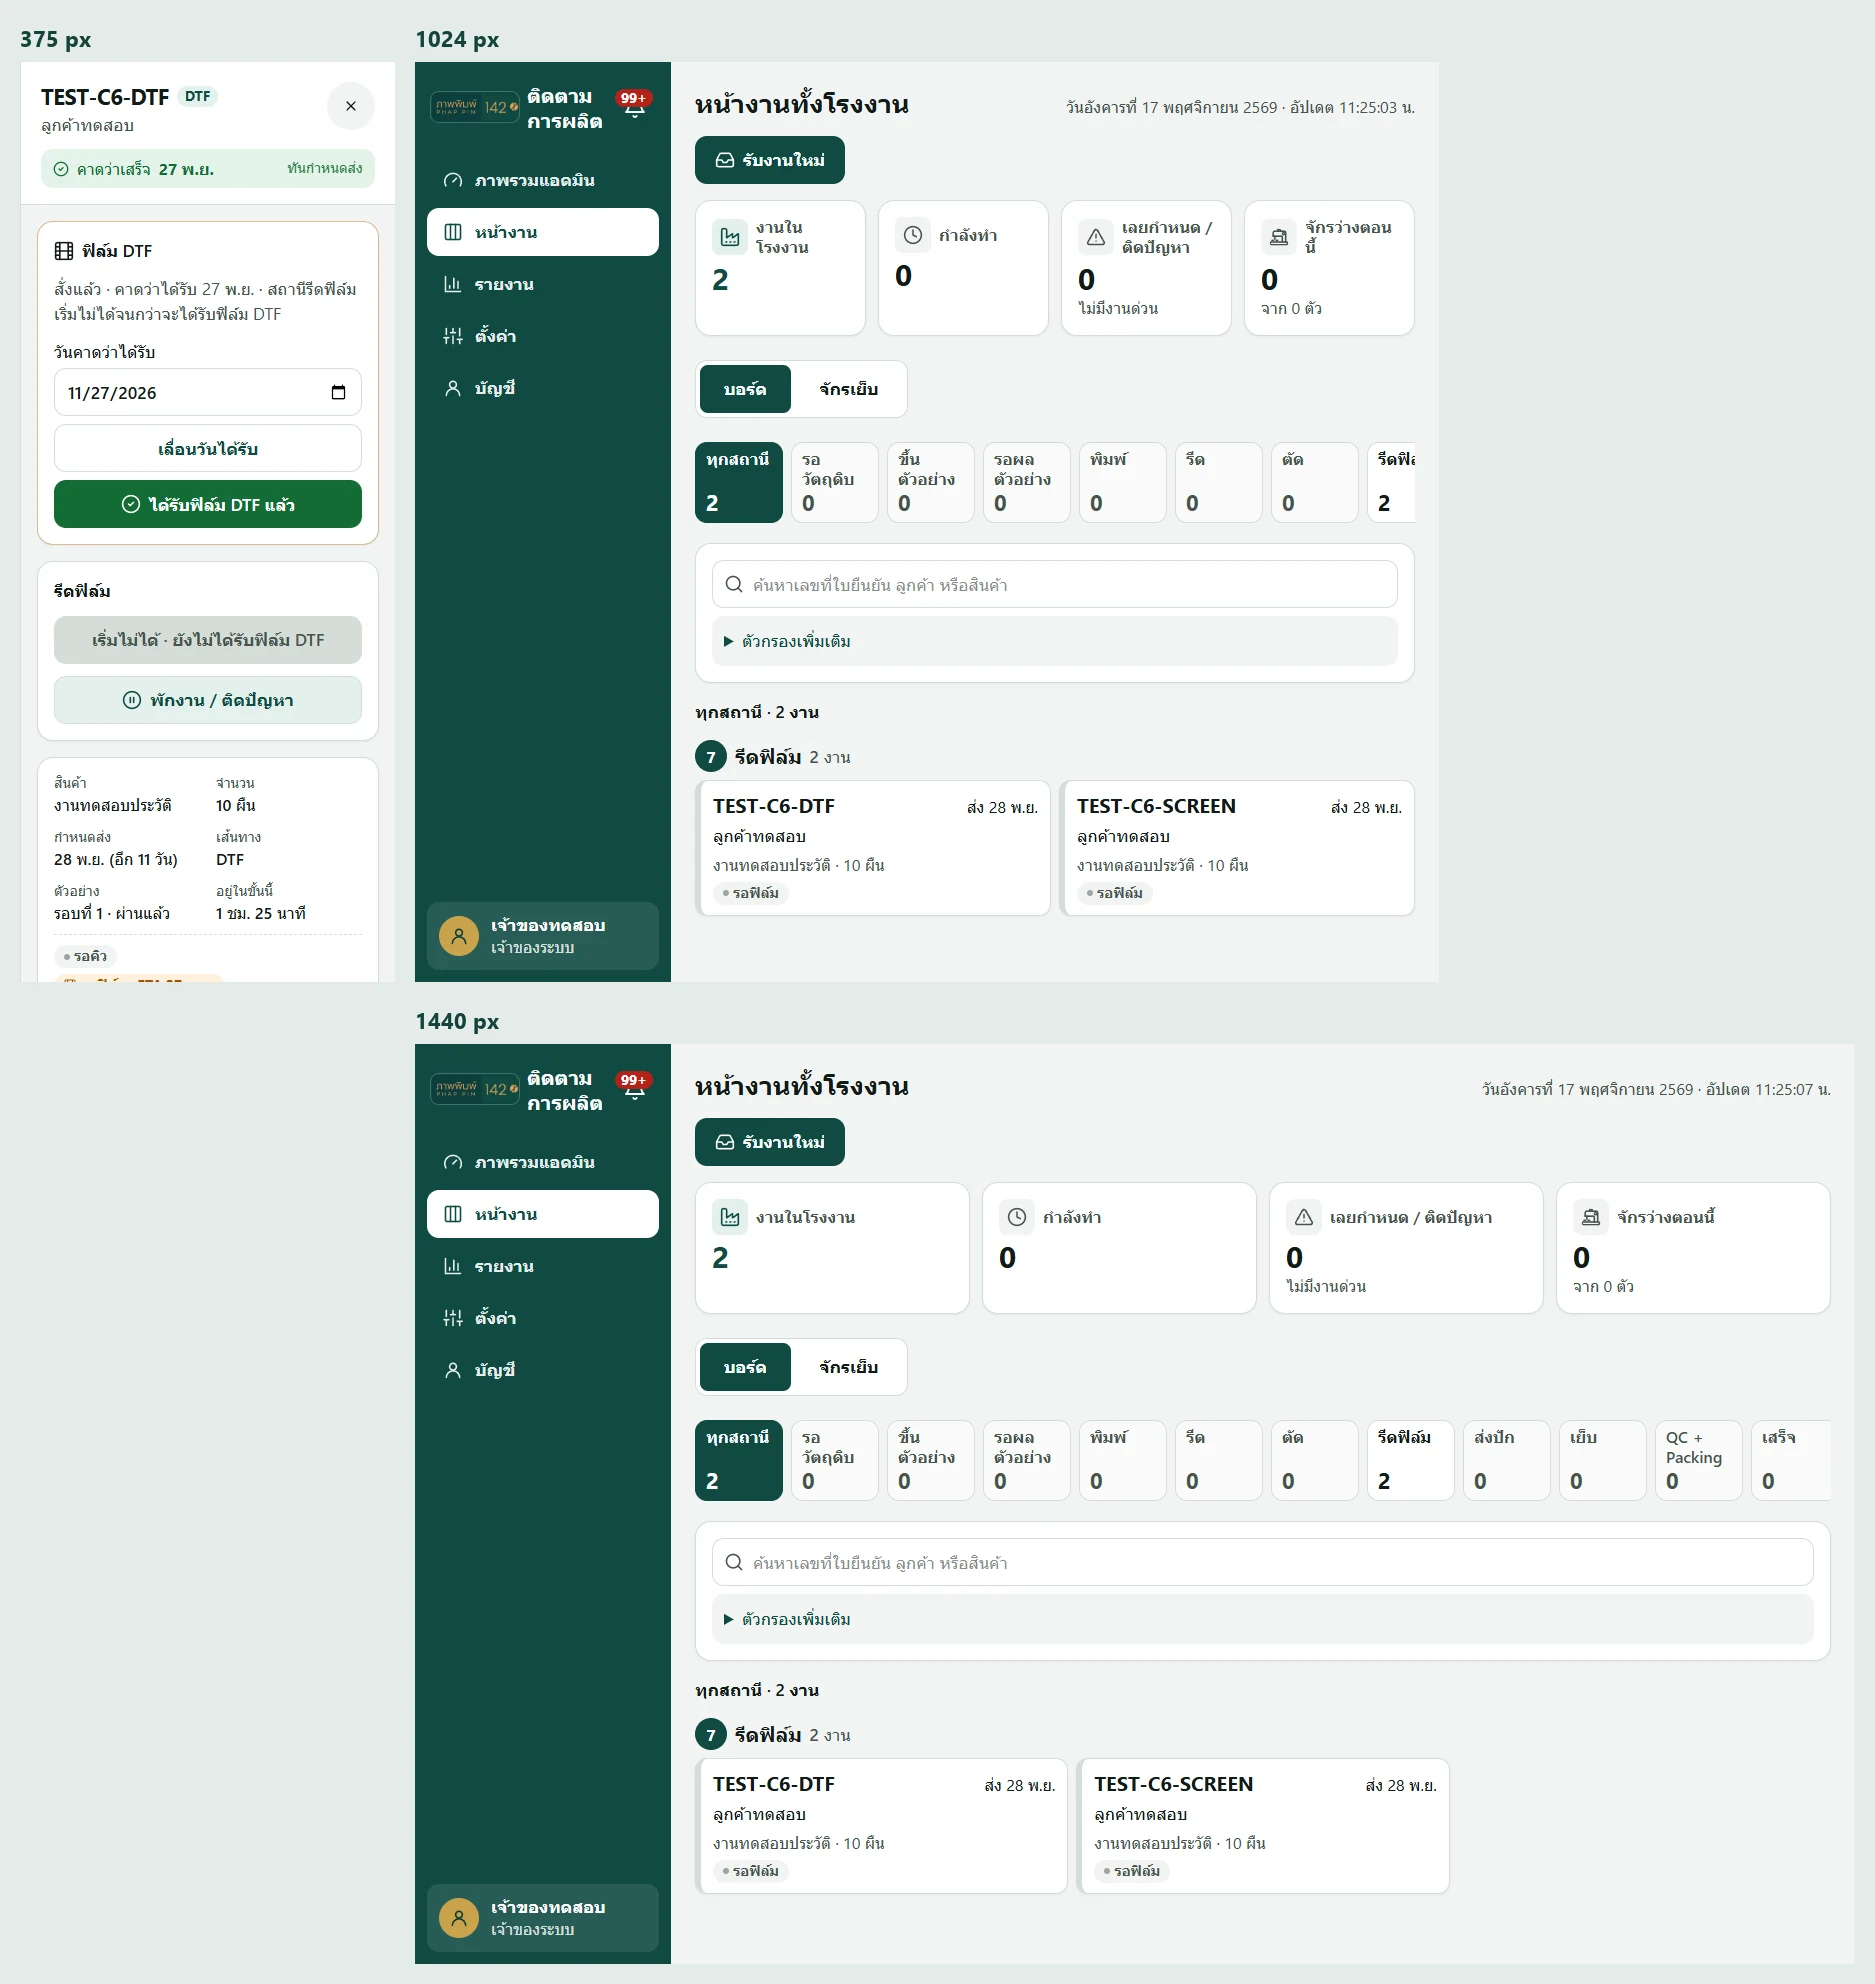
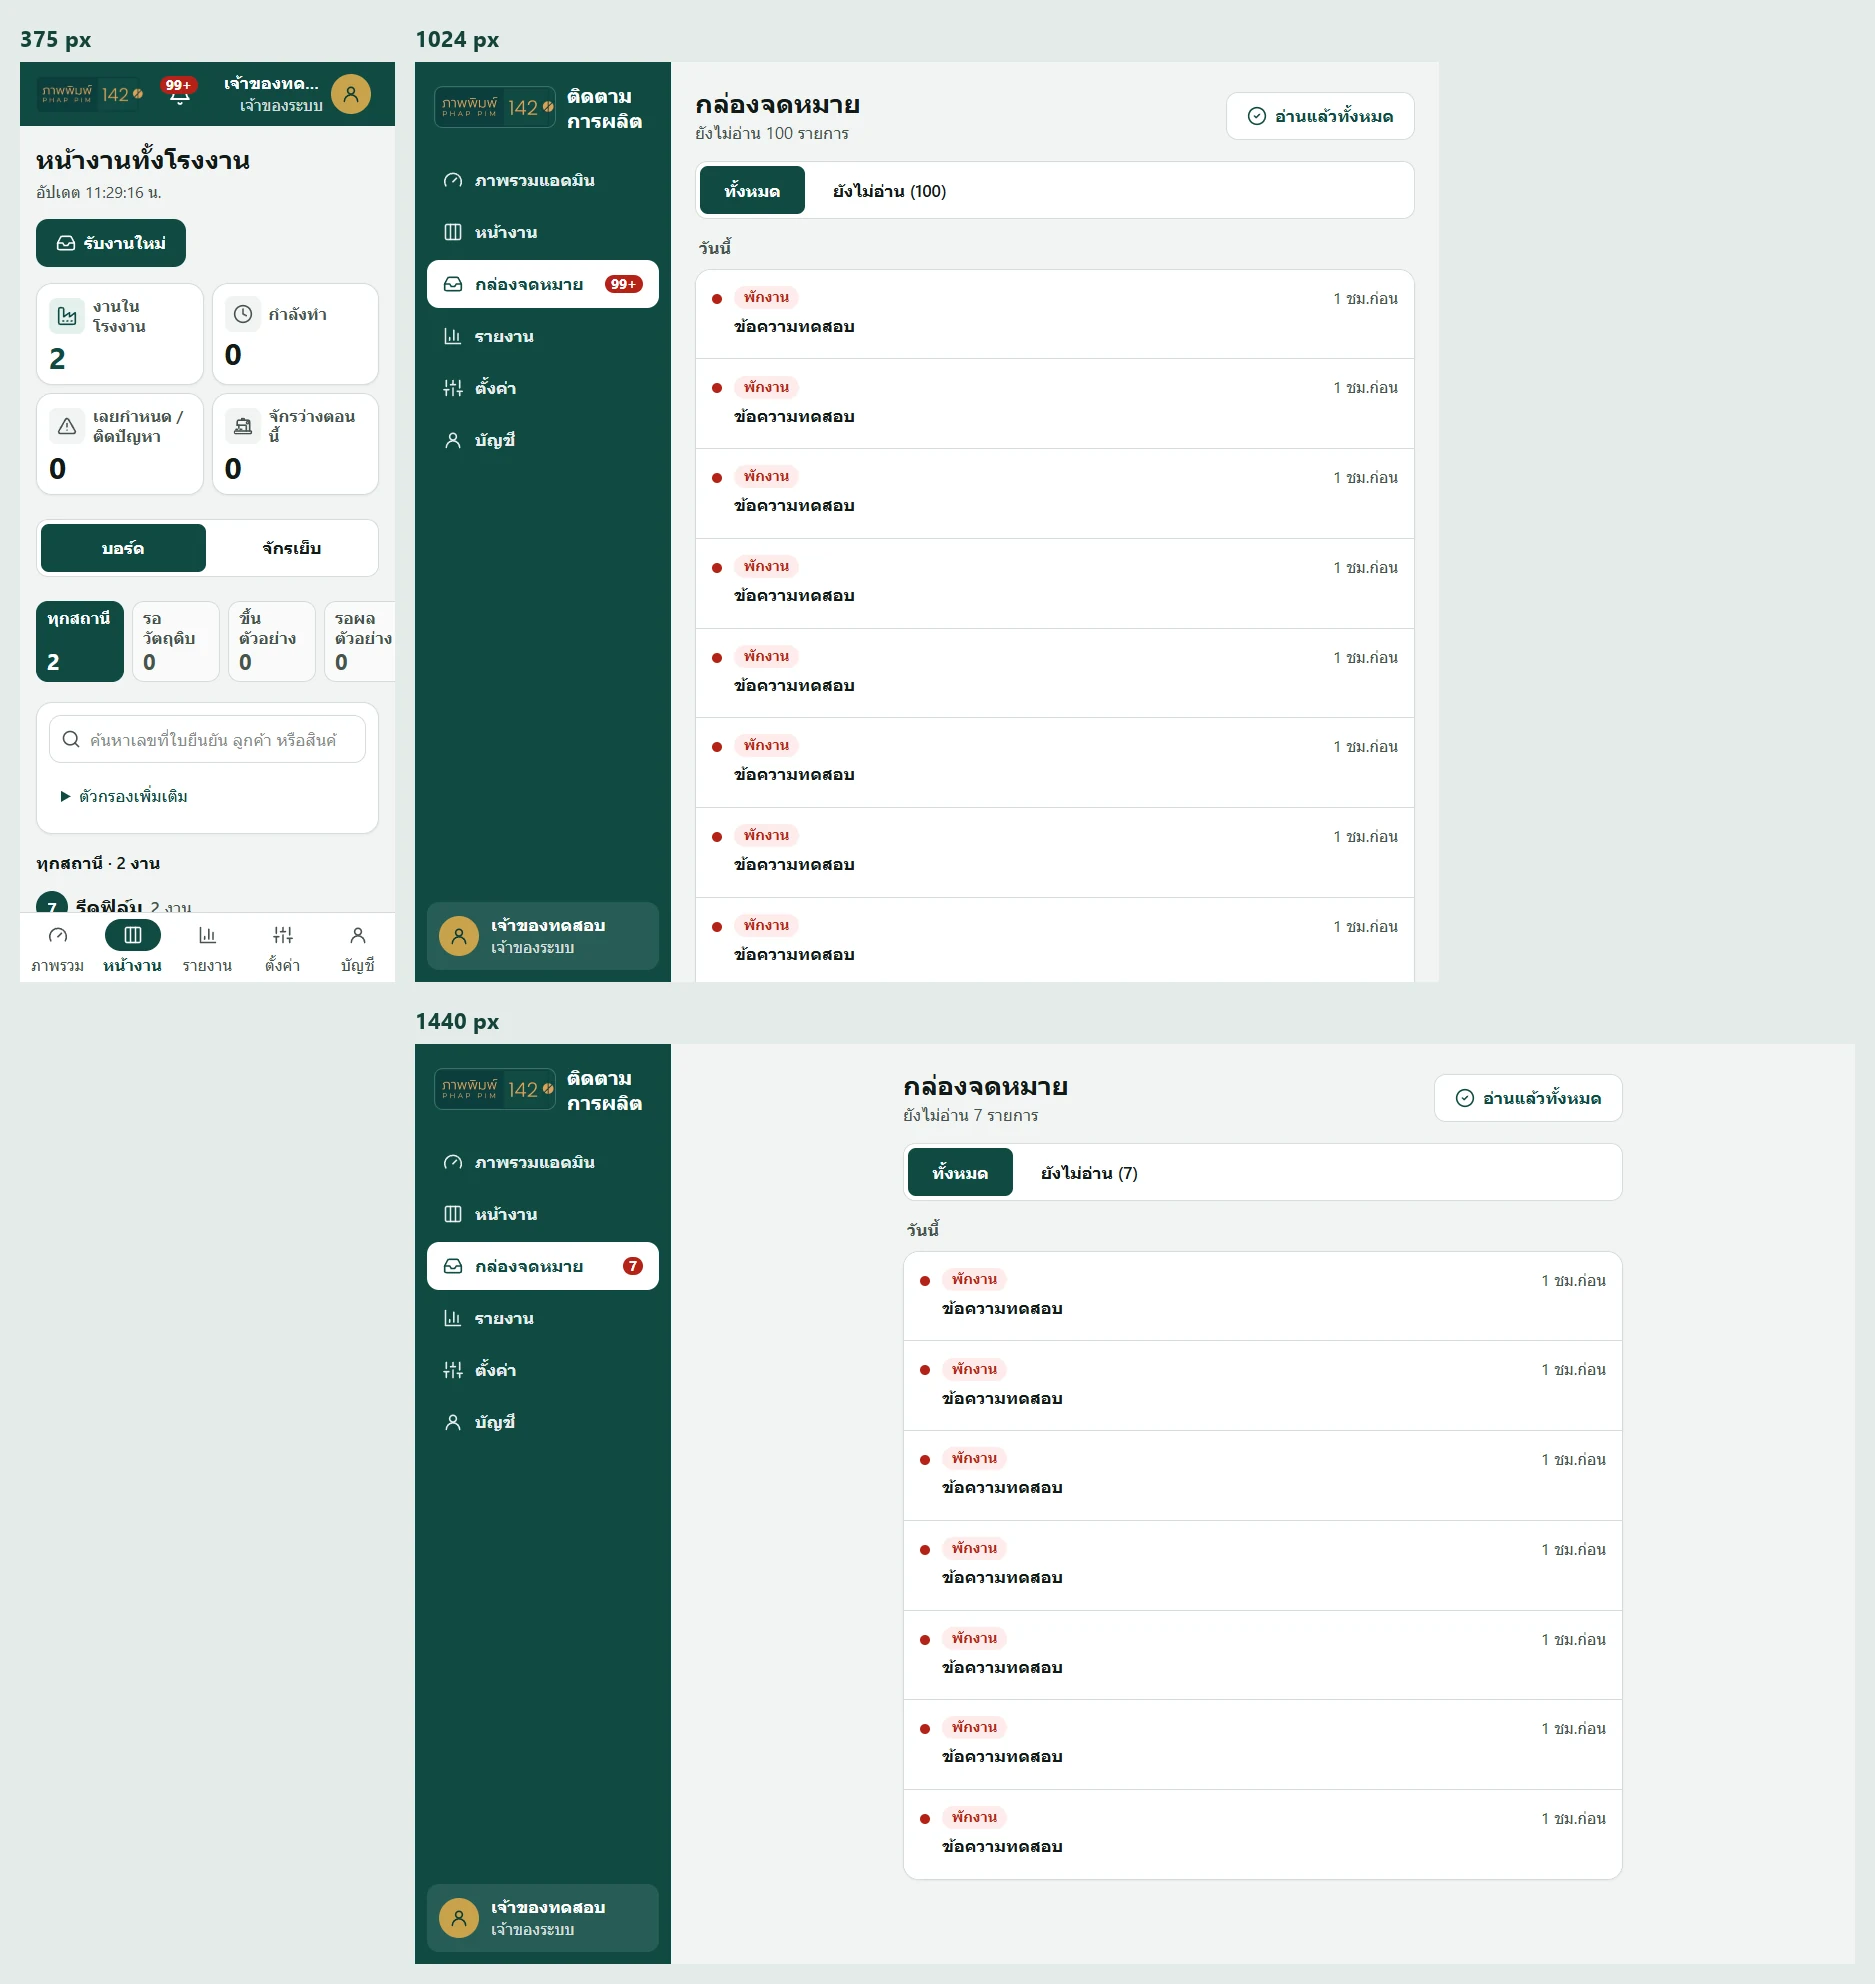
Place the desktop inbox in the sidebar navigation

diff --git a/app/src/App.tsx b/app/src/App.tsx
@@ -8,9 +8,11 @@ import ReportsPage from './pages/reports'
 import SettingsPage from './pages/settings'
 import InboxPage from './pages/inbox'
 import { InboxBell } from './pages/inbox/InboxBell'
+import { unreadBadge } from './pages/inbox/format'
+import { useInbox } from './pages/inbox/useInbox'
 import JobLabel from './pages/job-label'
 import { Card, CardHeader } from './components/ui'
-import { IconChart, IconColumns, IconGauge, IconSliders, IconUser } from './components/icons'
+import { IconChart, IconColumns, IconGauge, IconInbox, IconSliders, IconUser } from './components/icons'
 
 const Dashboard = lazy(() => import('./pages/Dashboard'))
 
@@ -19,13 +21,14 @@ type NavItem = { key: PageKey; hash: string; name: string; short: string; icon: 
 const NAV: NavItem[] = [
   { key: 'overview', hash: '#/', name: 'ภาพรวมแอดมิน', short: 'ภาพรวม', icon: IconGauge },
   { key: 'board', hash: '#/board', name: 'หน้างาน', short: 'หน้างาน', icon: IconColumns },
+  { key: 'inbox', hash: '#/inbox', name: 'กล่องจดหมาย', short: 'กล่องจดหมาย', icon: IconInbox },
   { key: 'reports', hash: '#/reports', name: 'รายงาน', short: 'รายงาน', icon: IconChart },
   { key: 'settings', hash: '#/settings', name: 'ตั้งค่า', short: 'ตั้งค่า', icon: IconSliders },
   { key: 'system', hash: '#/system', name: 'บัญชี', short: 'บัญชี', icon: IconUser },
 ]
 
-// หน้าที่ไม่อยู่ในเมนู: กล่องจดหมาย (กดกระดิ่ง) · ใบปะงาน (#/label?id=<job id> จากรายละเอียดงาน)
-const HIDDEN: Partial<Record<string, PageKey>> = { '#/inbox': 'inbox', '#/label': 'label' }
+// ใบปะงานเปิดจากรายละเอียดงาน โดยไม่มีรายการในเมนู
+const HIDDEN: Partial<Record<string, PageKey>> = { '#/label': 'label' }
 
 export default function App() {
   const hash = useHash()
@@ -81,23 +84,31 @@ function Workspace({ page: requested, labelId, profile, email }: {
     .filter(item => canOpenPage(profile.role, item.key))
     .map(item => item.key === 'board' && scope.columns ? { ...item, name: 'งานของฉัน', short: 'งานของฉัน' } : item)
   const roleLabel = labelFor(profile.role, profile.section)
+  const { unreadCount } = useInbox()
+  const inboxBadge = unreadBadge(unreadCount)
 
   return (
     <div className="flex h-dvh">
       {/* จอใหญ่: เมนูด้านซ้ายมีชื่อเต็ม · จอเล็ก/แท็บเล็ตใช้แถบล่าง */}
       <aside className="hidden w-64 shrink-0 flex-col bg-brand text-white lg:flex">
-        <div className="flex items-center gap-2 px-4 pt-5 pb-6">
-          <img src="/logo.webp" alt="ภาพพิมพ์ 142" className="h-auto w-22 shrink-0 rounded-lg ring-1 ring-white/20" />
-          <span className="shrink-0 text-lg font-bold leading-tight whitespace-nowrap">ติดตาม<br />การผลิต</span>
-          <span className="ml-auto"><InboxBell /></span>
+        <div className="flex items-center gap-3 px-5 pt-5 pb-6">
+          <img src="/logo.webp" alt="ภาพพิมพ์ 142" className="h-10 rounded-lg ring-1 ring-white/20" />
+          <span className="text-lg font-bold leading-tight">ติดตาม<br />การผลิต</span>
         </div>
         <nav aria-label="เมนูหลัก" className="grid gap-1 px-3">
           {visibleNav.map(({ key, name, hash, icon: Icon }) => {
             const active = key === page
+            const badge = key === 'inbox' ? inboxBadge : null
             return (
               <a key={key} href={hash} aria-current={active ? 'page' : undefined}
+                aria-label={badge ? `${name} ยังไม่อ่าน ${unreadCount} รายการ` : undefined}
                 className={`flex min-h-12 items-center gap-3 rounded-xl px-4 text-base font-semibold ${active ? 'bg-white text-brand' : 'text-white/90 hover:bg-white/10'}`}>
-                <Icon className="size-5" />{name}
+                <Icon className="size-5 shrink-0" />{name}
+                {badge && (
+                  <span aria-hidden className="ml-auto min-w-5 shrink-0 rounded-full bg-danger px-1.5 py-0.5 text-center text-xs leading-none font-bold text-white tabular-nums">
+                    {badge}
+                  </span>
+                )}
               </a>
             )
           })}
@@ -175,7 +186,7 @@ function Workspace({ page: requested, labelId, profile, email }: {
         </div>
 
         <nav aria-label="เมนูหลัก" className="flex border-t border-line bg-card pb-[env(safe-area-inset-bottom)] lg:hidden">
-          {visibleNav.map(({ key, short, hash, icon: Icon }) => {
+          {visibleNav.filter(({ key }) => key !== 'inbox').map(({ key, short, hash, icon: Icon }) => {
             const active = key === page
             return (
               <a key={key} href={hash} aria-current={active ? 'page' : undefined}

diff --git a/docs/handoff/codex-c6-history-fixes.md b/docs/handoff/codex-c6-history-fixes.md
@@ -6,7 +6,8 @@ Branch `codex/c6-history-fixes` · ฐาน worktree `e2b4d6e` (ใบสั่
 
 - เพิ่ม `20261119150000_station_visits_end.sql` ให้ `station_visits` ใช้เวลา `station_done` ก่อน หากหาไม่พบ ใช้เหตุการณ์แรกของงานเดียวกันที่ส่งกลับแก้ ส่งตัวอย่าง งานเสร็จ หรือเริ่ม visit ที่ใหม่กว่า เรียงด้วยเวลาและรหัส event เมื่อเวลาเท่ากัน คงคอลัมน์และ `security_invoker` เดิม
 - ไทม์ไลน์อ่าน `jobs.unit` ของใบงานและใช้ในข้อความรับงาน ผ่าน QC และส่งกลับแก้ แสดง “ชิ้น” เมื่อหน่วยว่าง
-- ปุ่มรับฟิล์มและข้อความหลังบันทึกใช้ `spaced()` ปรับหัวเมนูซ้ายให้ชื่ออยู่ 2 บรรทัด โดยกระดิ่งยังอยู่ในหัวเมนู
+- ปุ่มรับฟิล์มและข้อความหลังบันทึกใช้ `spaced()`
+- ข้อ ง. ฉบับล่าสุดคืนหัวโลโก้จอใหญ่เป็นแบบเดิม เพิ่ม «กล่องจดหมาย» ต่อจาก «หน้างาน» ในเมนูซ้าย ลิงก์ `#/inbox` แสดงสถานะหน้าปัจจุบันและป้ายแดงด้านขวาโดยใช้ `useInbox()` กับ `unreadBadge()` จอเล็กใช้กระดิ่งที่แถบบน
 
 ## ผลตรวจในเครื่อง
 
@@ -15,10 +16,12 @@ Branch `codex/c6-history-fixes` · ฐาน worktree `e2b4d6e` (ใบสั่
 | `app` · lint และ build | ผ่าน ไม่มีคำเตือนจาก build |
 | `app` · `npm test` | Vitest 105/105 และ `node:test` 108/108 |
 | `supabase/tests` · `npm test` | PGlite 493/493 เดินงานผ่าน RPC รวมจบปกติ ส่งกลับแก้ พักแล้วทำต่อ ส่งตัวอย่าง และจบงาน รวมข้อมูลเดิมที่ไม่มี `station_done` |
-| Chrome · 375 / 768 / 1024 / 1440 px | หน้าไม่ล้นและ console error 0 หัวเมนูซ้าย 2 บรรทัดที่ 1024 และ 1440 px พร้อมกระดิ่งสูง 48 px และป้าย 99+ |
+| Chrome · 375 / 768 / 1024 / 1440 px | หน้าไม่ล้นและ console error 0 ทดสอบกดจากกระดิ่งจอเล็กและเมนูจอใหญ่ไป `#/inbox` ได้ เมนูจอใหญ่ไฮไลต์เมื่อเปิดหน้า |
 | Chrome · ข้อความและการรับฟิล์ม | ประวัติแสดง “บันทึกผ่าน QC 5 ผืน” ปุ่มและข้อความหลังบันทึกตรงทั้ง “ได้รับฟิล์ม DTF แล้ว” และ “ได้รับงานสกรีนแล้ว” โดยบันทึกผ่าน RPC จำลองเท่านั้น |
 
-![หน้าจอทดสอบที่ 375, 1024 และ 1440 px](codex-c6-history-fixes.webp)
+**ตรวจหัวเมนูและป้ายบน Chrome** ที่ 1024 และ 1440 px หัวโลโก้อยู่ 2 บรรทัด รายการสูง 48 px ป้ายห่างขอบขวาของรายการ 16 px และอยู่ในเมนูทั้งหมด ทดสอบ 0 ข้อความ (ซ่อน), 7 ข้อความ (แสดง `7`) และ 100 ข้อความ (แสดง `99+`)
+
+![กระดิ่งแถบบนที่ 375 px และรายการกล่องจดหมายที่ 1024 กับ 1440 px](codex-c6-history-fixes.webp)
 
 ## ยังไม่ได้ทำและบั๊กนอกขอบเขต
 
